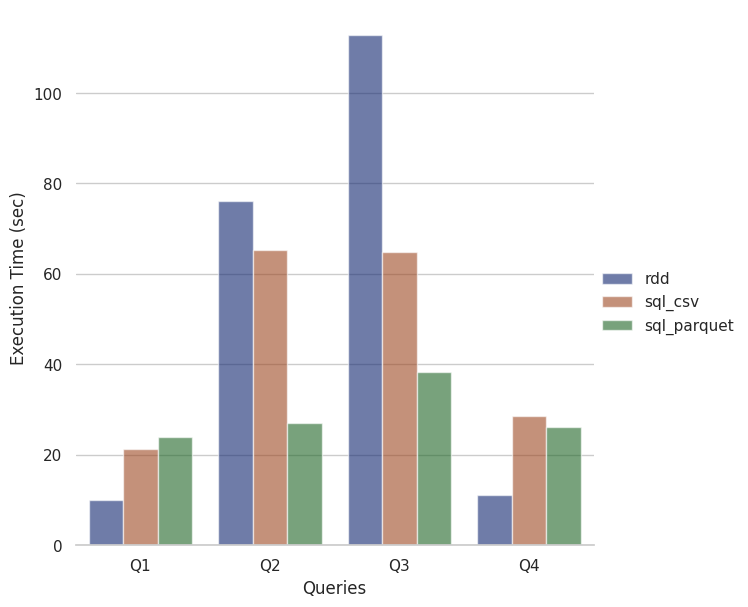
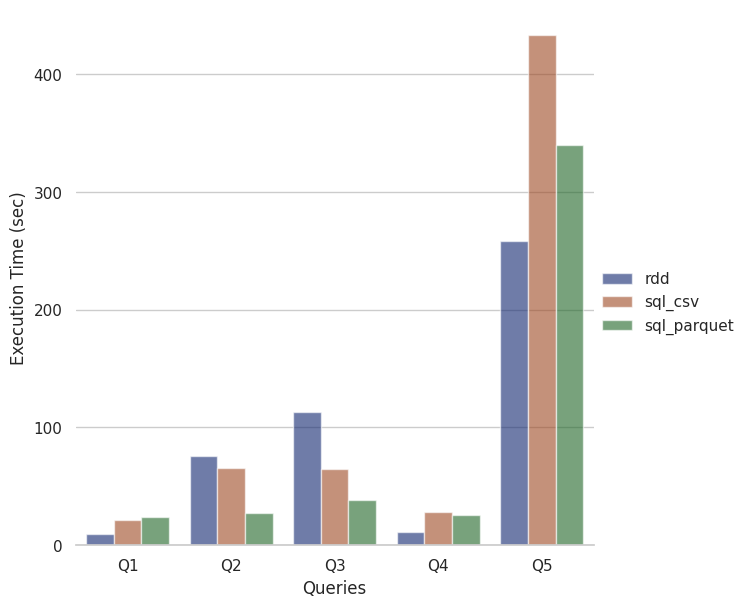
Added comments on report, new plot, .txt

diff --git a/src/code/join_repartition.py b/src/code/join_repartition.py
@@ -22,7 +22,7 @@ rdd_ratings = sc.textFile("hdfs://master:9000/movie_data/ratings.csv") \
     .map(lambda line: (int(line[1]), (int(line[0]), float(line[2]), line[3])))
 
 # Emits: (MovieID, Genre)
-rdd_movie_genres = sc.textFile("hdfs://master:9000/movie_data/movie_genres.csv") \
+rdd_movie_genres = sc.textFile("hdfs://master:9000/movie_data/movie_genres_100.csv") \
     .map(lambda line: split_complex(line)) \
     .map(lambda line: (int(line[0]), line[1]))
 

diff --git a/Report.md b/Report.md
@@ -71,13 +71,17 @@ spark-submit convert_csv_to_parquet.py > log_convert_csv_to_parquet.txt 2>&1
 ![Ραβδοδιάγραμμα-Χρόνων-Εκτέλεσης-Ερωτημάτων](src/queries_exec_times.png)
 
 **Σχολιασμός Χρόνων Εκτέλεσης για κάθε ερώτημα.**
-Παρατηρούμε ότι, για στα Q2, Q3 το RDD είναι πιο αργό από το αντίστοιχο query σε SQL. 
+Παρατηρούμε ότι, για τα Q2, Q3 το RDD είναι πιο αργό από το αντίστοιχο query σε SQL. 
 Αντίθετα στα Q1, Q4 το RDD είναι πιο γρήγορο από τα αντίστοιχα query σε SQL.
+Για το Q5, παρατηρούμε ότι η εκτέλεση σε SQL είναι σχεδόν η διπλάσια από ότι με RDD, και αυτό γιατί στην υλοποίηση μας, κάνουμε πολλά Group By, και μετά για να μπορέσουμε να πάρουμε τις τιμές από όλα τα πεδία μιας γραμμής, χρειάζεται να κάνουμε αντίστοιχα πολλά join πινάκων, κάτι που αυξάνει όπως φαίνεται κατά πολύ τον χρόνο εκτέλεσης.
+Αντίθετα στην περίπτωση του RDD API, δεν χρείαζεται όλη αυτή η επιπλέον δουλειά, καθώς ορίζουμε εμείς από το map ή το reduce ποια πεδία θα κρατήσουμε και πως.
 
 Παρατηρούμε επίσης ότι τα Q2, Q3 είναι τα πιο χρονοβόρα ανεξάρτητα τις υλοποίησης και αυτό γιατί και τα δύο χρησιμοποιούν το `ratings` αρχείο, το οποίο είναι πολύ μεγαλύτερο των άλλων αρχείων:
 - `movies.csv`: 17 MB
 - `movie_genres.csv`: 1.3 MB
 - `ratings.csv`: 677 MB
+
+Επίσης προφανώς το Q5 είναι το πιο χρονοβόρο από όλα, καθώς γίνονται πολλά joins και group by, και με τα τρεία αρχεία.
 
 Επίσης το Q2 χρησιμοποιεί μόνο το αρχείο `ratings`, ενώ το Q3, εφαρμόζει join πάνω στα αρχεία `ratings` και `movie_genres`, οπότε για αυτό είναι ακόμα πιο αργό.
 

diff --git a/README.md b/README.md
@@ -142,10 +142,6 @@ Converts the 3 `.csv` to `.parquet` files and saves log file.
   - [x] SQL with CSV (infer schema)
   - [x] SQL with Parquet
 
-- [ ] Combine SQL implementations:
-  - CSV
-  - Parquet
-
 ### Task 4
 Run `run_all_queries.sh` in order run all queries and get logs and execution times:
 ```bash
